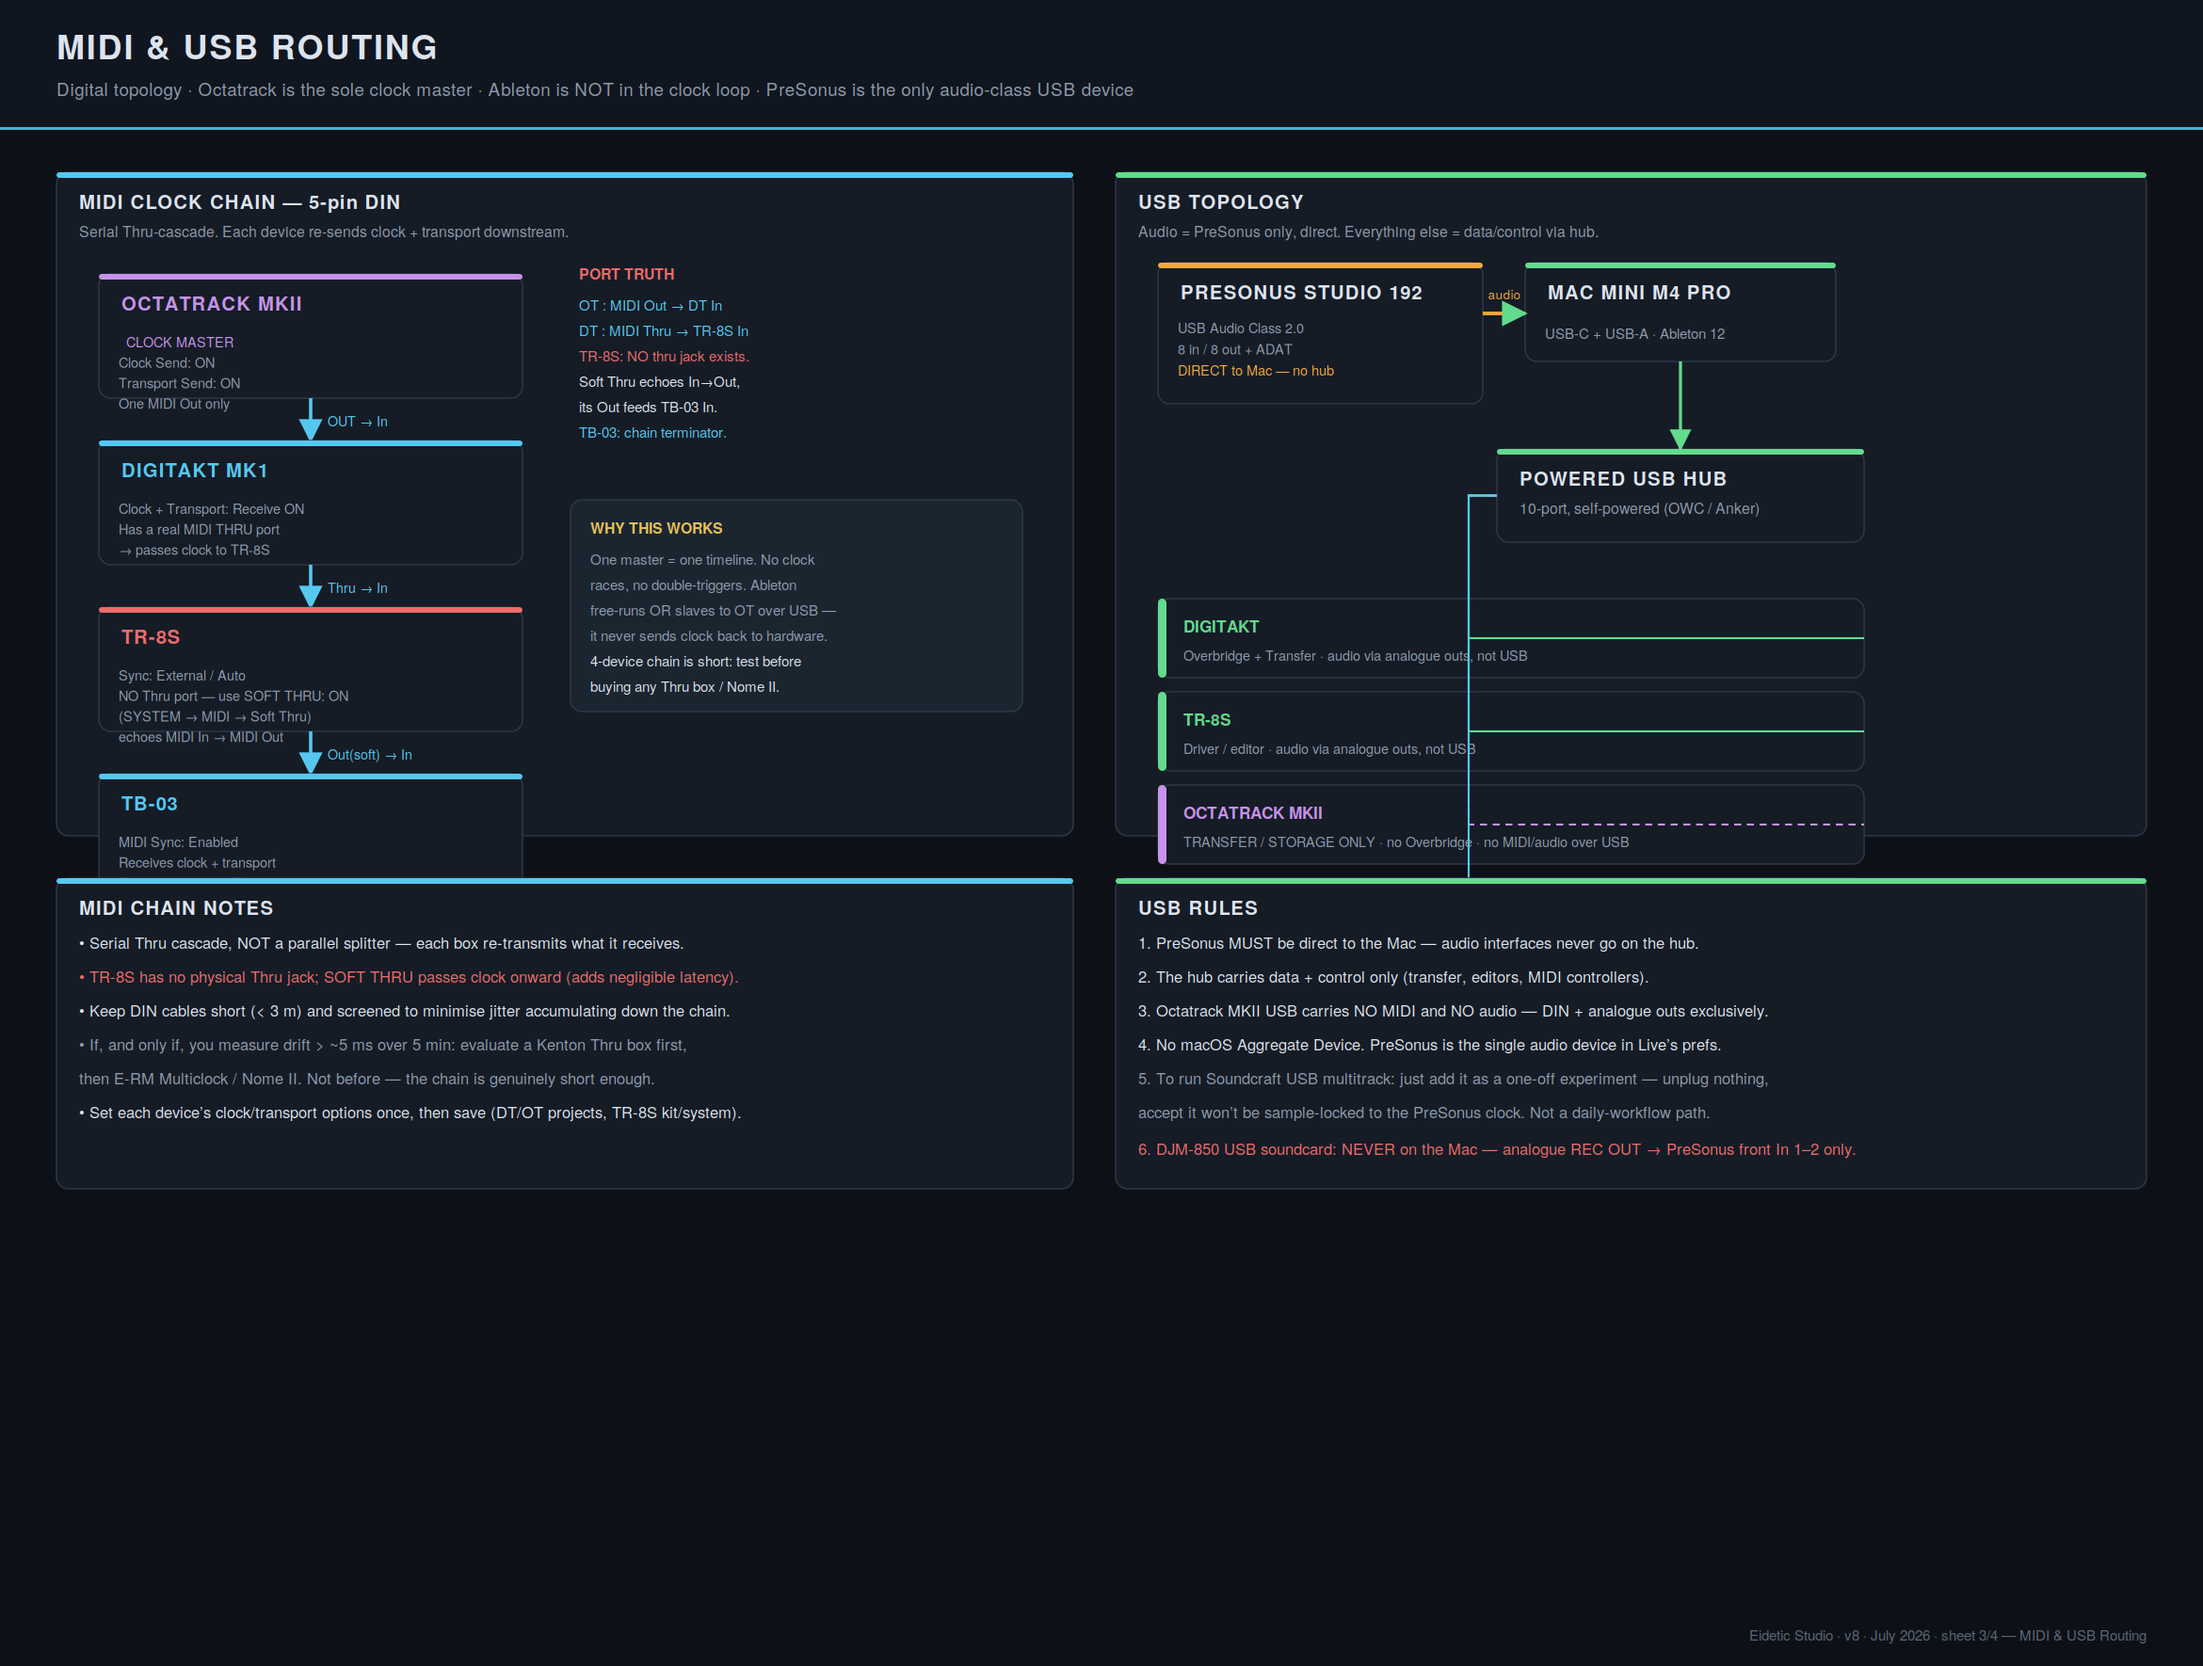
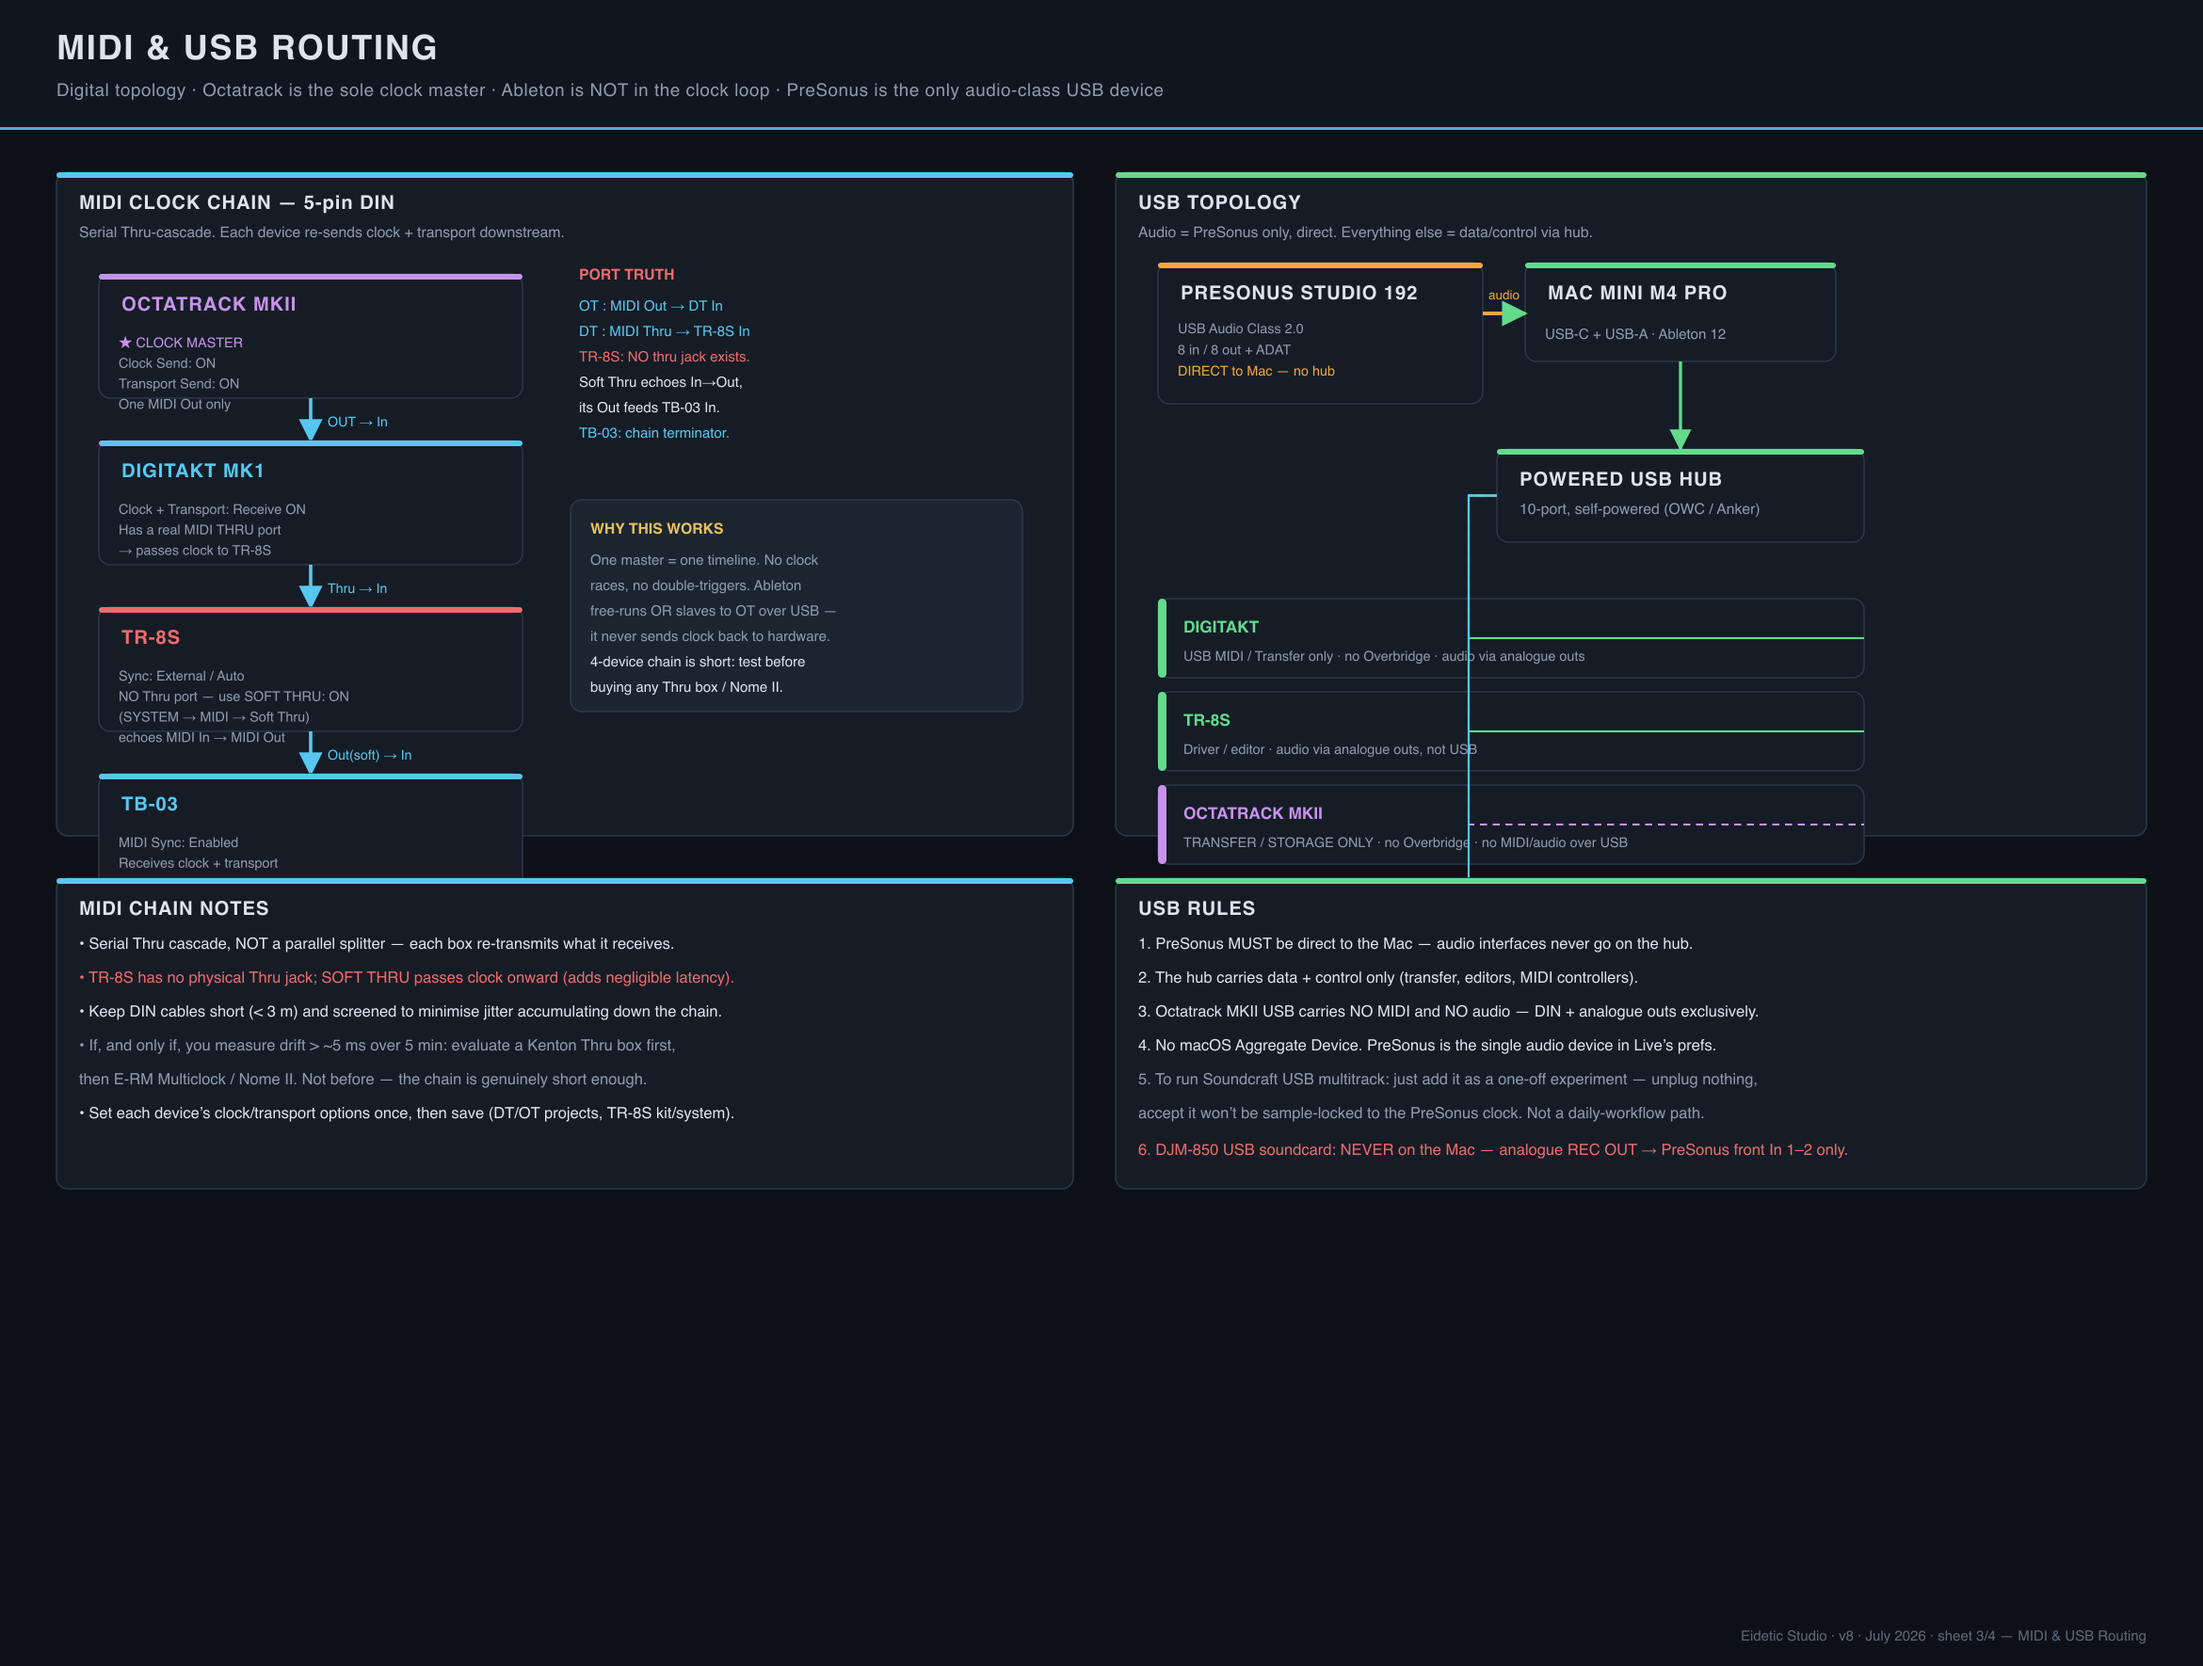
Document Digitakt as USB MIDI only; no Overbridge

diff --git a/knowledge-base.md b/knowledge-base.md
@@ -1,8 +1,8 @@
 # Eidetic Studio — Knowledge Base
 
-**Document version:** v2.4
-**Last updated:** 2026-07-09
-**Corresponds to diagram set:** **v8 — all four sheets** (footers read "v8 · July 2026"). v8 = v7 content plus the no-speculative-runs rule: patchbay rows 7–8 and 17–18 are left **unwired** (previously "synth-ready"/"flex" dest-side runs). The v8 set supersedes v6 and v7 entirely — delete all older copies.
+**Document version:** v2.5
+**Last updated:** 2026-07-19
+**Corresponds to diagram set:** **v8 — all four sheets** (footers read "v8 · July 2026"). v8 = v7 content plus the no-speculative-runs rule: patchbay rows 7–8 and 17–18 are left **unwired** (previously "synth-ready"/"flex" dest-side runs). Sheet 3's Digitakt USB label was corrected in v2.5: **Overbridge is not used**. The v8 set supersedes v6 and v7 entirely — delete all older copies.
 **Owner:** Robin · DJ Eidetic · *Late Night Relics* on AAJA Radio
 
 **Document suite — this KB is one of three companions:**
@@ -92,7 +92,7 @@ The Studio 192's physical input architecture (verified, §11): **Inputs 1–2 ar
 | Yamaha HS8 (×2) | Studio monitors | Fed from the BM9S SAT outputs (high-passed) — §3.5 |
 | **Dynaudio BM9S** subwoofer | Sub for low-end / rumble monitoring | XLR I/O throughout; SAT HP Flat/60/80 Hz; SUB LP 50–150 Hz; phase 0/180°; ~29 Hz extension. (Label check pending — §0.1 item 2) |
 | Samson S-Patch Plus 48-point | Patchbay (half-normal) | Installed in the Zaor rack; central routing hub |
-| Elektron Digitakt MK1 | Drum sampler / resample target | **Probationary** — reassess ~September 2026 (§13). No timestretch |
+| Elektron Digitakt MK1 | Drum sampler / resample target | **Probationary** — reassess ~September 2026 (§13). No timestretch. **USB CONFIG = USB MIDI; Overbridge is not used.** |
 | Roland TR-8S | Drum machine + synth | Soft Thru **must** be ON (no hardware Thru port) |
 | Roland TB-03 | Acid bass synth | Roland Boutique — **3.5 mm mini output**, not ¼″ TS |
 | Arturia MiniLab 3 | USB MIDI controller | DAW control only; not in the clock chain |
@@ -317,8 +317,8 @@ Octatrack MKII (MIDI Clock Master)
                                                                 └─ [end of chain]
 
 Arturia MiniLab 3 → USB → Powered hub → Mac mini → Ableton Live
-Digitakt MK1      → USB → Powered hub → Mac mini → Ableton Live (MIDI + Overbridge)
-TR-8S             → USB → Powered hub → Mac mini → Ableton Live (MIDI)
+Digitakt MK1      → USB → Powered hub → Mac mini → Elektron Transfer (USB MIDI mode; no Overbridge)
+TR-8S             → USB → Powered hub → Mac mini → no Ableton MIDI/clock role
 Octatrack MKII    → USB → [CompactFlash transfer only — no MIDI, no audio]
 ```
 
@@ -343,8 +343,8 @@ Mac mini M4 Pro (direct Thunderbolt/USB)
     ├─ PreSonus Studio 192  [DIRECT — never via hub]
     └─ Powered USB hub
             ├─ Arturia MiniLab 3
-            ├─ Elektron Digitakt MK1  (MIDI + Overbridge)
-            ├─ Roland TR-8S           (MIDI)
+            ├─ Elektron Digitakt MK1  (USB MIDI mode for Elektron Transfer; no Overbridge)
+            ├─ Roland TR-8S           (no Ableton MIDI/clock role)
             └─ [Octatrack MKII — CF transfer only, not for MIDI or audio]
 
 Soundcraft Signature 12 MTK — USB cable physically disconnected
@@ -430,7 +430,7 @@ Three modes are established. The Hybrid-mode rule is non-negotiable.
 | Soundcraft Signature 12 MTK (USB) | ⚠ Class-compliant, not Harman-certified for Tahoe | USB disconnected — low practical risk |
 | Elektron Octatrack MKII (USB) | ℹ CF transfer only | No Overbridge, no USB audio/MIDI by design |
 | Ableton Live 12 Suite | ✅ Current (12.4) | Keep on latest 12.x |
-| Elektron Overbridge | ❌ N/A for OT | Digitakt MK1 supports Overbridge; Octatrack MKII does not |
+| Elektron Overbridge | ❌ Not used in this rig | Digitakt MK1 supports it, but is set to **USB MIDI** for Elektron Transfer; Octatrack MKII does not support it |
 | Pioneer DJM-850 (USB) | ❌ Not used with the Mac | Analogue REC OUT path only (§3.6, §10.4a) |
 
 **Sourced facts (from primary manuals/spec sheets — do not re-litigate from forums):**
@@ -520,3 +520,4 @@ If the answer to all three is no, sell.
 | KB v2.2 | 2026-07-02 | Both open items closed: sub confirmed **Dynaudio BM9S** with crossover starting points; monitor/record split committed (§3.5); monitor-chain cables specced; warning §10.10 added; Digitakt no-timestretch datapoint |
 | KB v2.3 | 2026-07-09 | **PreSonus input architecture verified against the Studio 192 spec:** In 1–2 are front mic/inst preamp combos; true line inputs are rear 3–8 only (bypass preamps). **Soundcraft Main Mix landing revised In 1–2 → In 7–8** (§0.4, §3.5, §9) — resolves the deferred XLR leg with the correct physical target; trade-off (no reserved future-synth stem inputs) recorded. **DJM-850 integrated as guest gear** (§3.6): REC OUT → 2× RCA→XLR(M) → front In 1–2, UC Surface recallable gain scenes, Mode 1 monitoring, new "DJ set capture" recipe (§12) and warnings §10.4a/§10.11/§10.12. **Full diagram set bumped to v7:** sheet 1 regenerated (BM9S monitor chain, capture taps, DJM path, revised input map); sheets 2 & 4 corrected (In 7–8 landing, BM9S chain, TR-8S/Digitakt row order aligned to §5.1, front-panel guest slot, permanent taps noted); sheet 3 gains USB rule 6 (DJM USB prohibition). New §13 confirms the sample audition/timestretch workflow (Ableton Complex Pro + OT ±10 % + A2 prep pipeline) is fully covered. Sub model naming flag opened (Robin said "BM92"; confirmed model is BM9S — verify badge, §0.1). |
 | **KB v2.4** | **2026-07-09** | **No-speculative-runs rule adopted (mid-Session 4):** patchbay rows **7–8** (dest → SC ST 7/8, "synth-ready") and **17–18** (dest → OT In C/D, "flex") **cut from the wiring plan — leave unwired** (§5.1). These were the only two "might be used" runs in the plan; all remaining runs are load-bearing. Session 4 budget restated: 14 runs + 2 taps = 16 cables, 8 spares (§5, §9). OT thru-FX-on-any-source recipe marked deferred (§5.2). **Diagram set bumped to v8** (sheets 1/2/4 amended; sheet 3 footer only). Rows 11–12 (DT resample bus) retained as active workflow — noted as freeing 2 cables if the September review retires the Digitakt. |
+| **KB v2.5** | **2026-07-19** | **Digitakt Overbridge explicitly retired from this configuration:** Digitakt USB CONFIG set/documented as **USB MIDI**, for Elektron Transfer only; no USB audio, Overbridge, or Ableton MIDI/clock workflow. Corrected the stale "MIDI + Overbridge" claims in §§2, 6, 7 and 11 and the v8 MIDI/USB-routing diagram. |

diff --git a/devices/digitakt.md b/devices/digitakt.md
@@ -1,7 +1,7 @@
 # Elektron Digitakt MK1 — quick reference
 
 **Role in the rig:** drum sampler (one-shots only) and resample target; passes the OT clock downstream via its **hardware MIDI THRU**. Slaves to the Octatrack. **Probationary** — role reassessed ~September 2026 (KB §14). **No timestretch** (pitch and speed are linked).
-**Menu access:** `[SETTINGS]` (cogwheel) → **MIDI CONFIG** — sub-menus **SYNC** and **PORT CONFIG**. USB personality: `[SETTINGS]` → SYSTEM → USB CONFIG (plain USB MIDI vs Overbridge).
+**Menu access:** `[SETTINGS]` (cogwheel) → **MIDI CONFIG** — sub-menus **SYNC** and **PORT CONFIG**. USB personality: `[SETTINGS]` → SYSTEM → USB CONFIG = **USB MIDI** (not Overbridge).
 
 > Cross-refs: clock/sync → [`../guides/midi-sync.md`](../guides/midi-sync.md) §3 · track allocation → [`../guides/track-setup.md`](../guides/track-setup.md) · wiring → [`../knowledge-base.md`](../knowledge-base.md) §5.1.
 
@@ -12,6 +12,7 @@
 | **Fix TR-8S + TB-03 dead while the Digitakt itself syncs** | `[SETTINGS]` → MIDI CONFIG → PORT CONFIG → **THRU PORT FUNCTIONALITY = MIDI** (if it's DIN24/DIN48 the THRU port stops carrying MIDI and everything downstream dies silently). | midi-sync §3 |
 | **Confirm it follows the OT** | MIDI CONFIG → SYNC → **CLOCK RECEIVE = ON**, **TRANSPORT RECEIVE = ON**. INPUT FROM includes **MIDI**. | midi-sync §3 |
 | **Keep the USB port sterile (this rig's committed state)** | MIDI CONFIG → SYNC → **CLOCK SEND = OFF**, **TRANSPORT SEND = OFF** (nothing consumes USB clock; downstream travels via the hardware THRU). | midi-sync §3, §8 |
+| **Disable Overbridge** (this rig does not use it) | `[SETTINGS]` → **SYSTEM** → **USB CONFIG** → select **USB MIDI**. This disables Overbridge and USB Audio/MIDI; use the USB connection only for Elektron Transfer, never as an Ableton audio device or clock path. | Digitakt User Manual OS 1.51 p.73; on-rig configuration 2026-07-19 |
 | **Stop track 2 triggering from the TB-03's notes** | MIDI CONFIG → CHANNELS → move the audio-track channels **off channel 2** (or keep track 2 empty). | midi-sync §3 |
 | **Resample the desk Group bus** | Soundcraft Group 1/2 → Digitakt In L/R (patchbay 11–12). Arm a sample-record track (tracks 7–8 kept empty for this) and hit sample; zero the Group routing when done. | KB §12, track-setup |
 
@@ -31,7 +32,7 @@ Load 30–50 sounds into the Sound Pool before a session.
 - **Never loops** — pitching a sample also changes its speed, so loops drift. Loops belong on the Octatrack.
 - **Sample format: 16-bit, 48 kHz, mono** (matches Ableton; unlike the OT's 44.1 kHz).
 - **No timestretch at all** — logged as the key September-review datapoint (KB §14).
-- Overbridge mode renames the Ableton MIDI ports — re-apply any Sync/Track toggles to the new port names after switching USB CONFIG.
+- **USB CONFIG stays on USB MIDI.** Overbridge and USB Audio/MIDI are intentionally unused; Ableton has no Digitakt audio or clock path.
 
 ## Sources
 
